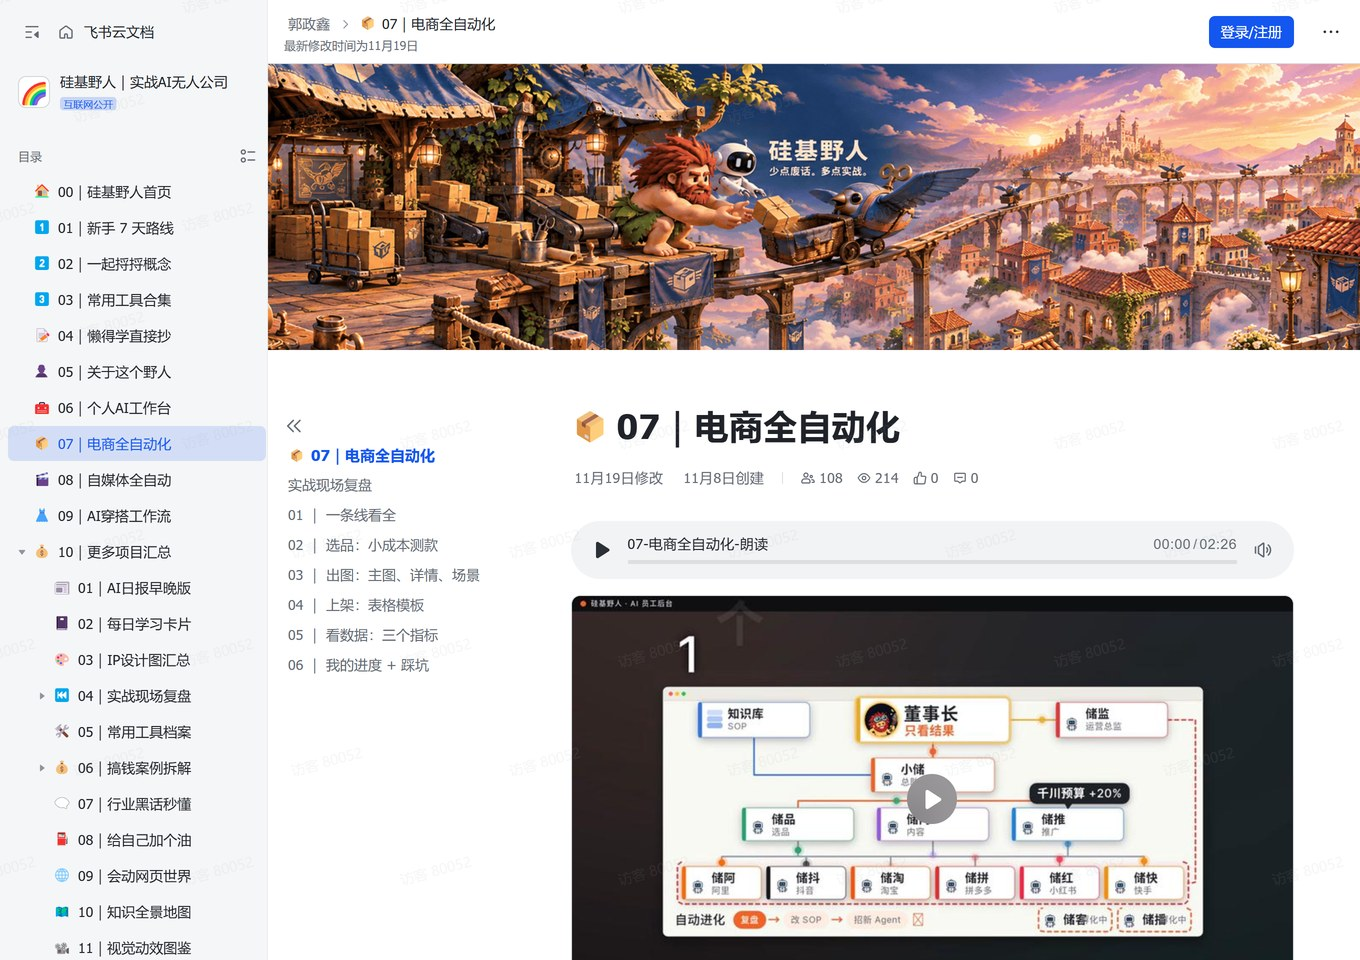
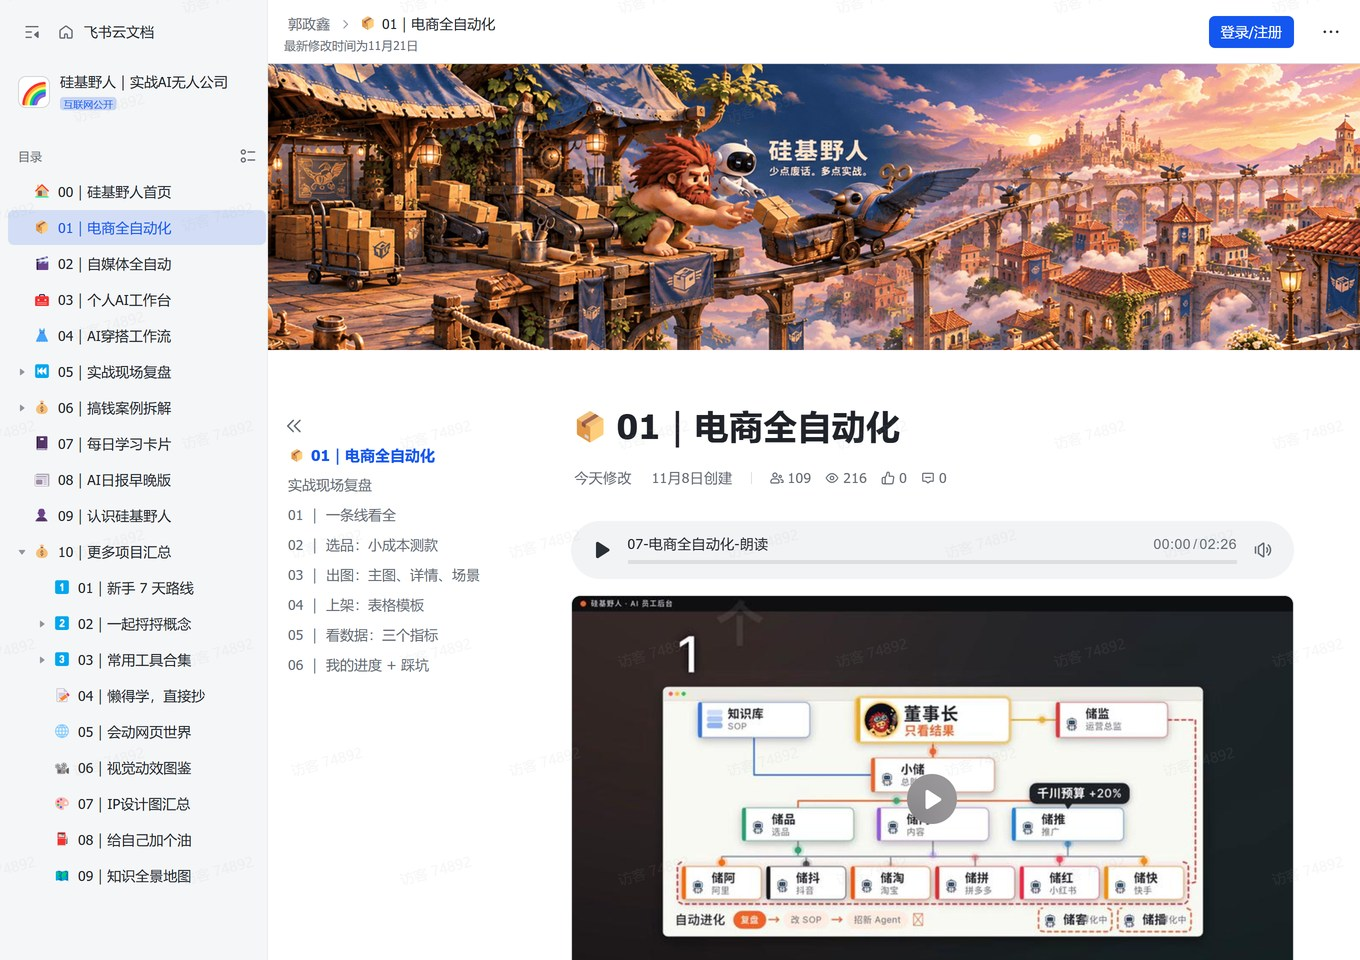
sync(kb): 同步飞书 12:04 新版目录截图与页签编号（00 首页 / 01 电商全自动 / 09 全景地图）

diff --git a/index.html b/index.html
@@ -1430,13 +1430,13 @@ html[data-theme="night"] .workbench-progress-card .entry-status { color:#9fcaff;
             <div class="bc-pill"><i class="bc-dot bc-dot-live"></i>OPEN WIKI · 77 DOCS</div>
             <div class="bc-wiki-win">
               <img class="bc-wiki-slide is-on" src="assets/kb-shot-wide.jpg" alt="飞书知识库 · 00 首页" loading="lazy" decoding="async">
-              <img class="bc-wiki-slide" src="assets/kb-shot-commerce.jpg" alt="飞书知识库 · 07 电商全自动化" loading="lazy" decoding="async">
-              <img class="bc-wiki-slide" src="assets/kb-shot-map.jpg" alt="飞书知识库 · 10 知识全景地图" loading="lazy" decoding="async">
+              <img class="bc-wiki-slide" src="assets/kb-shot-commerce.jpg" alt="飞书知识库 · 01 电商全自动化" loading="lazy" decoding="async">
+              <img class="bc-wiki-slide" src="assets/kb-shot-map.jpg" alt="飞书知识库 · 09 知识全景地图" loading="lazy" decoding="async">
             </div>
             <div class="bc-chips" aria-hidden="true">
               <div class="bc-chip is-on">00 知识库首页</div>
-              <div class="bc-chip">07 电商全自动</div>
-              <div class="bc-chip">10 全景地图</div>
+              <div class="bc-chip">01 电商全自动</div>
+              <div class="bc-chip">09 全景地图</div>
             </div>
           </div>
         </div>
@@ -1579,14 +1579,14 @@ html[data-theme="night"] .workbench-progress-card .entry-status { color:#9fcaff;
             <span id="kb2Url">guijiyeren.feishu.cn/wiki/LJ5UwgCwziAVUpkqYKTcTsbXnwg</span>
             <div class="kb2-tabs" role="tablist" aria-label="飞书知识库示例页面切换">
               <button type="button" class="kb2-tab is-on" data-kb-idx="0" data-kb-url="guijiyeren.feishu.cn/wiki/LJ5UwgCwziAVUpkqYKTcTsbXnwg">00 首页</button>
-              <button type="button" class="kb2-tab" data-kb-idx="1" data-kb-url="guijiyeren.feishu.cn/wiki/XDn1wVKnCiMs5okndf9cmFzvnmc">07 电商全自动</button>
-              <button type="button" class="kb2-tab" data-kb-idx="2" data-kb-url="guijiyeren.feishu.cn/wiki/LaN3wyNGmiiPTCkgIwccYaDOnNc">10 全景地图</button>
+              <button type="button" class="kb2-tab" data-kb-idx="1" data-kb-url="guijiyeren.feishu.cn/wiki/XDn1wVKnCiMs5okndf9cmFzvnmc">01 电商全自动</button>
+              <button type="button" class="kb2-tab" data-kb-idx="2" data-kb-url="guijiyeren.feishu.cn/wiki/LaN3wyNGmiiPTCkgIwccYaDOnNc">09 全景地图</button>
             </div>
           </div>
           <div class="kb2-shot-wrap">
             <img class="kb2-slide is-on" src="assets/kb-shot-wide.jpg" alt="飞书知识库 · 00 硅基野人首页与完整目录" loading="lazy" decoding="async">
-            <img class="kb2-slide" src="assets/kb-shot-commerce.jpg" alt="飞书知识库 · 07 电商全自动化与完整目录" loading="lazy" decoding="async">
-            <img class="kb2-slide" src="assets/kb-shot-map.jpg" alt="飞书知识库 · 10 知识全景地图与完整目录" loading="lazy" decoding="async">
+            <img class="kb2-slide" src="assets/kb-shot-commerce.jpg" alt="飞书知识库 · 01 电商全自动化与完整目录" loading="lazy" decoding="async">
+            <img class="kb2-slide" src="assets/kb-shot-map.jpg" alt="飞书知识库 · 09 知识全景地图与完整目录" loading="lazy" decoding="async">
           </div>
         </div>
         <div class="kb2-float"><span class="dot"></span>持续更新 · 77 页知识库</div>
@@ -1788,7 +1788,7 @@ html[data-theme="night"] .workbench-progress-card .entry-status { color:#9fcaff;
       <div class="faq-item"><div class="faq-q-row"><img class="faq-q-img" src="assets/faq-q.png" alt="问题" loading="eager"><span class="faq-q">这些公开项目和飞书知识库都能直接用吗？收费吗？</span><span class="faq-num">01</span></div><div class="faq-a"><img class="faq-a-img" src="assets/faq-a.png" alt="回答" loading="eager"><p>站上的 6 个公开项目（人生指南、资源中心、情报中枢、每日拆卡、会动网页、视觉图鉴）和飞书知识库全部免费公开，免登录直接用。把平时实战沉淀出来的东西整理分享出来，就是希望大家可以一起看、一起用、少走弯路。</p></div></div>
       <div class="faq-item"><div class="faq-q-row"><img class="faq-q-img" src="assets/faq-q.png" alt="问题" loading="lazy" decoding="async"><span class="faq-q">你目前的主线业务有哪些？哪些公开，哪些在内部跑？</span><span class="faq-num">02</span></div><div class="faq-a"><img class="faq-a-img" src="assets/faq-a.png" alt="回答" loading="lazy" decoding="async"><p>目前围绕四条主线实战：电商全自动化、AI 穿搭工作流、自媒体多平台全自动、个人 AI 工作台。跑通且适合对外分享的工具、方法与复盘都会放到公开页面和飞书知识库；涉及具体店铺数据、内部素材与商业隐私的系统保留在本地运行，对外只展示思路与脱敏界面。</p></div></div>
       <div class="faq-item"><div class="faq-q-row"><img class="faq-q-img" src="assets/faq-q.png" alt="问题" loading="lazy" decoding="async"><span class="faq-q">资源中心和情报中枢为什么只看目录和榜单，不提供下载？</span><span class="faq-num">03</span></div><div class="faq-a"><img class="faq-a-img" src="assets/faq-a.png" alt="回答" loading="lazy" decoding="async"><p>出于版权与合规要求，资源中心只公开分类结构与条目目录，展示资料整理与检索方式，不放任何网盘链接或提取码；情报中枢展示版也做了脱敏处理，只公开热词趋势、筛选框架和公开榜。</p></div></div>
-      <div class="faq-item"><div class="faq-q-row"><img class="faq-q-img" src="assets/faq-q.png" alt="问题" loading="lazy" decoding="async"><span class="faq-q">我不会写代码，也能搭一套类似的工作台吗？从哪开始？</span><span class="faq-num">04</span></div><div class="faq-a"><img class="faq-a-img" src="assets/faq-a.png" alt="回答" loading="lazy" decoding="async"><p>可以。我本身做了 10 年电商，并不是专业程序员；这个网站和整套工作台都是我提需求、定结构、做验收，由 AI 写代码实现的。建议先看飞书知识库里的「01｜新手 7 天路线」，从拆解自己每天最耗时的重复活开始，先跑通一个环节再逐步连成流水线。</p></div></div>
+      <div class="faq-item"><div class="faq-q-row"><img class="faq-q-img" src="assets/faq-q.png" alt="问题" loading="lazy" decoding="async"><span class="faq-q">我不会写代码，也能搭一套类似的工作台吗？从哪开始？</span><span class="faq-num">04</span></div><div class="faq-a"><img class="faq-a-img" src="assets/faq-a.png" alt="回答" loading="lazy" decoding="async"><p>可以。我本身做了 10 年电商，并不是专业程序员；这个网站和整套工作台都是我提需求、定结构、做验收，由 AI 写代码实现的。建议先看飞书知识库里的「新手 7 天路线」，从拆解自己每天最耗时的重复活开始，先跑通一个环节再逐步连成流水线。</p></div></div>
       <div class="faq-item"><div class="faq-q-row"><img class="faq-q-img" src="assets/faq-q.png" alt="问题" loading="lazy" decoding="async"><span class="faq-q">如果想合作或直接拿现成方案，一般怎么配合？</span><span class="faq-num">05</span></div><div class="faq-a"><img class="faq-a-img" src="assets/faq-a.png" alt="回答" loading="lazy" decoding="async"><p>我平时大部分时间在一线跑自己的电商和内容业务，更适合交付已经跑通的标准化工作流、成品模板和实操手册，让你拿回去上手就能出成品。有明确业务需求可以在下方直接留言，写清你的行业、卡点和目标，看到后会通过邮箱回复。</p></div></div>
       <div class="faq-item"><div class="faq-q-row"><img class="faq-q-img" src="assets/faq-q.png" alt="问题" loading="lazy" decoding="async"><span class="faq-q">站里的整理和飞书文档可以转载或分享给团队吗？</span><span class="faq-num">06</span></div><div class="faq-a"><img class="faq-a-img" src="assets/faq-a.png" alt="回答" loading="lazy" decoding="async"><p>个人学习、团队内部分享或注明「硅基野人」出处的正常转载都可以；如果涉及商业复用、二次打包分发或批量搬运，先通过下方留言或邮箱打声招呼。</p></div></div>
     </div>
